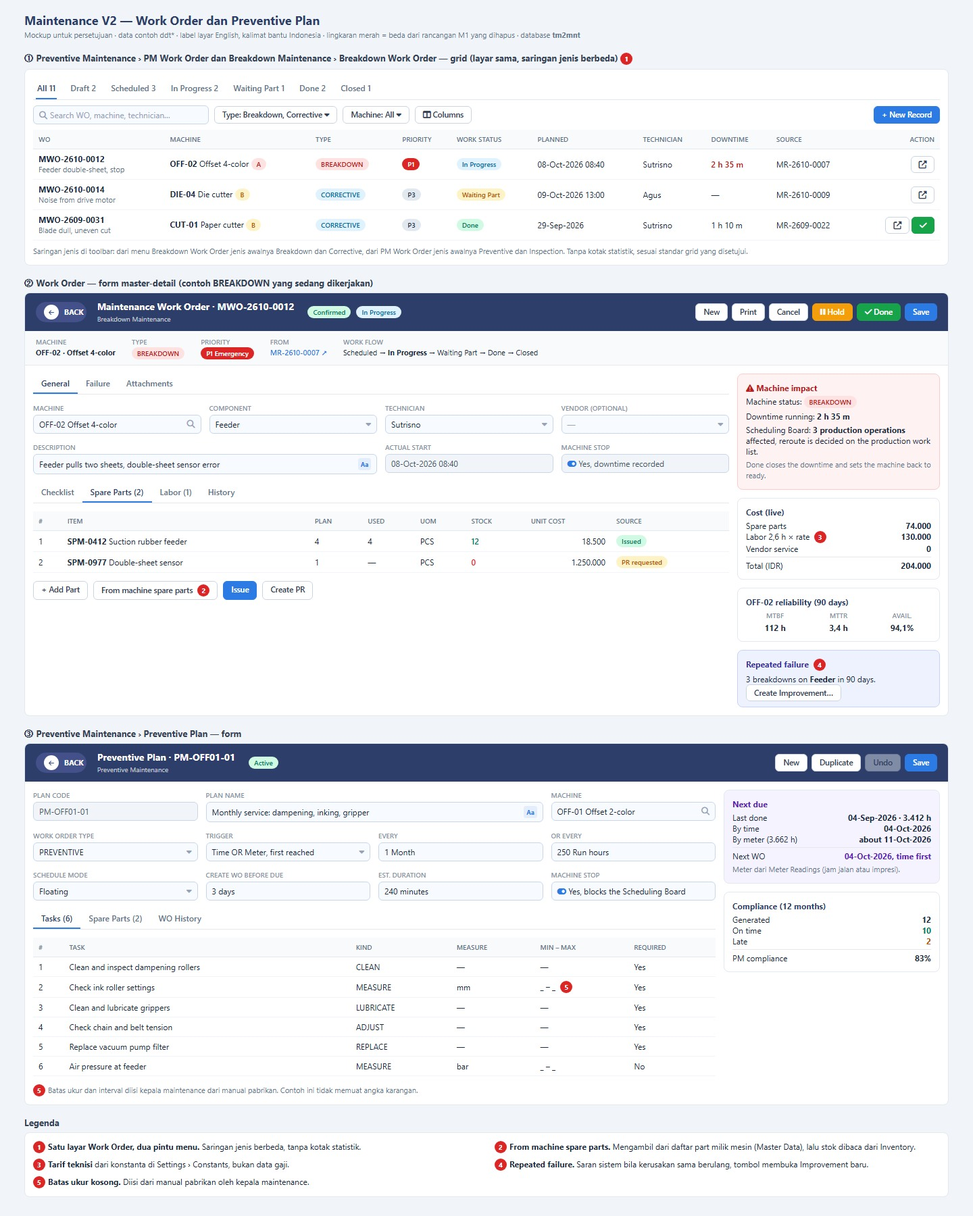
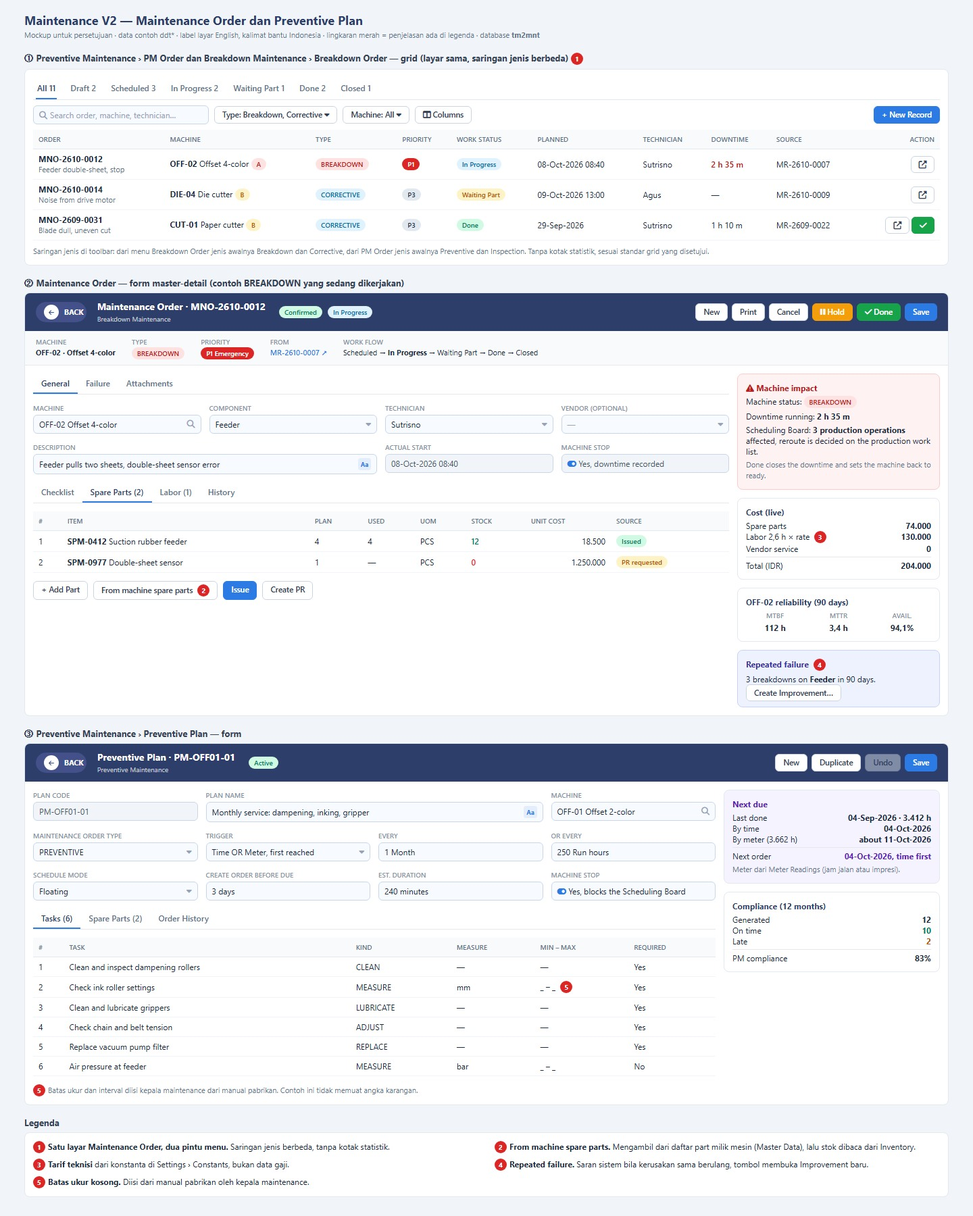
Maintenance: "Work Order" is now "Maintenance Order" (menu PM Order / Breakdown Order, prefix MNO, tables mnt_order*)
User decision after comparing popular CMMS names (SAP PM uses Maintenance Order); Work Order stays a Production term. Menu codes, mockups, Help topics and the plan updated.

Agent: Jo

diff --git a/docs/mockups/maintenance_v2_work.html b/docs/mockups/maintenance_v2_work.html
@@ -2,7 +2,7 @@
 <html lang="id">
 <head>
 <meta charset="UTF-8">
-<title>Maintenance V2 — Work Order dan Preventive Plan</title>
+<title>Maintenance V2 — Maintenance Order dan Preventive Plan</title>
 <script src="https://cdn.tailwindcss.com"></script>
 <link rel="stylesheet" href="https://cdnjs.cloudflare.com/ajax/libs/font-awesome/6.5.1/css/all.min.css">
 <script>
@@ -39,38 +39,38 @@
 <main class="p-4 max-w-[1400px] mx-auto">
 
 <div>
-  <div class="text-lg font-bold text-navy">Maintenance V2 — Work Order dan Preventive Plan</div>
-  <div class="note">Mockup untuk persetujuan · data contoh ddt* · label layar English, kalimat bantu Indonesia · lingkaran merah = beda dari rancangan M1 yang dihapus · database <b>tm2mnt</b></div>
+  <div class="text-lg font-bold text-navy">Maintenance V2 — Maintenance Order dan Preventive Plan</div>
+  <div class="note">Mockup untuk persetujuan · data contoh ddt* · label layar English, kalimat bantu Indonesia · lingkaran merah = penjelasan ada di legenda · database <b>tm2mnt</b></div>
 </div>
 
 <!-- ============ WO GRID ============ -->
-<div class="cap">① Preventive Maintenance › PM Work Order dan Breakdown Maintenance › Breakdown Work Order — grid (layar sama, saringan jenis berbeda) <span class="tag">1</span></div>
+<div class="cap">① Preventive Maintenance › PM Order dan Breakdown Maintenance › Breakdown Order — grid (layar sama, saringan jenis berbeda) <span class="tag">1</span></div>
 <section class="card p-3 space-y-2">
   <div class="flt"><span class="on">All 11</span><span>Draft 2</span><span>Scheduled 3</span><span>In Progress 2</span><span>Waiting Part 1</span><span>Done 2</span><span>Closed 1</span></div>
   <div class="flex items-center gap-2">
-    <div class="inp" style="width:260px"><span class="text-slate-400"><i class="fa-solid fa-magnifying-glass mr-1"></i>Search WO, machine, technician…</span></div>
+    <div class="inp" style="width:260px"><span class="text-slate-400"><i class="fa-solid fa-magnifying-glass mr-1"></i>Search order, machine, technician…</span></div>
     <span class="btn">Type: Breakdown, Corrective <i class="fa-solid fa-caret-down"></i></span>
     <span class="btn">Machine: All <i class="fa-solid fa-caret-down"></i></span>
     <span class="btn"><i class="fa-solid fa-table-columns"></i> Columns</span>
     <span class="btn pri ml-auto">+ New Record</span>
   </div>
   <table class="w-full">
-    <thead><tr><th>WO</th><th>Machine</th><th>Type</th><th>Priority</th><th>Work status</th><th>Planned</th><th>Technician</th><th>Downtime</th><th>Source</th><th class="text-right">Action</th></tr></thead>
+    <thead><tr><th>Order</th><th>Machine</th><th>Type</th><th>Priority</th><th>Work status</th><th>Planned</th><th>Technician</th><th>Downtime</th><th>Source</th><th class="text-right">Action</th></tr></thead>
     <tbody>
-      <tr><td><b>MWO-2610-0012</b><div class="note">Feeder double-sheet, stop</div></td><td><b>OFF-02</b> Offset 4-color <span class="bdg bg-red-100 text-red-700">A</span></td><td><span class="bdg bg-red-100 text-red-700">BREAKDOWN</span></td><td><span class="bdg bg-red-600 text-white">P1</span></td><td><span class="bdg bg-sky-100 text-sky-700">In Progress</span></td><td>08-Oct-2026 08:40</td><td>Sutrisno</td><td class="text-red-700 font-semibold">2 h 35 m</td><td>MR-2610-0007</td><td class="text-right"><span class="btn"><i class="fa-solid fa-up-right-from-square"></i></span></td></tr>
-      <tr><td><b>MWO-2610-0014</b><div class="note">Noise from drive motor</div></td><td><b>DIE-04</b> Die cutter <span class="bdg bg-amber-100 text-amber-700">B</span></td><td><span class="bdg bg-sky-100 text-sky-700">CORRECTIVE</span></td><td><span class="bdg bg-slate-200">P3</span></td><td><span class="bdg bg-amber-100 text-amber-700">Waiting Part</span></td><td>09-Oct-2026 13:00</td><td>Agus</td><td>—</td><td>MR-2610-0009</td><td class="text-right"><span class="btn"><i class="fa-solid fa-up-right-from-square"></i></span></td></tr>
-      <tr><td><b>MWO-2609-0031</b><div class="note">Blade dull, uneven cut</div></td><td><b>CUT-01</b> Paper cutter <span class="bdg bg-amber-100 text-amber-700">B</span></td><td><span class="bdg bg-sky-100 text-sky-700">CORRECTIVE</span></td><td><span class="bdg bg-slate-200">P3</span></td><td><span class="bdg bg-emerald-100 text-emerald-700">Done</span></td><td>29-Sep-2026</td><td>Sutrisno</td><td>1 h 10 m</td><td>MR-2609-0022</td><td class="text-right"><span class="btn"><i class="fa-solid fa-up-right-from-square"></i></span> <span class="btn ok"><i class="fa-solid fa-check"></i></span></td></tr>
+      <tr><td><b>MNO-2610-0012</b><div class="note">Feeder double-sheet, stop</div></td><td><b>OFF-02</b> Offset 4-color <span class="bdg bg-red-100 text-red-700">A</span></td><td><span class="bdg bg-red-100 text-red-700">BREAKDOWN</span></td><td><span class="bdg bg-red-600 text-white">P1</span></td><td><span class="bdg bg-sky-100 text-sky-700">In Progress</span></td><td>08-Oct-2026 08:40</td><td>Sutrisno</td><td class="text-red-700 font-semibold">2 h 35 m</td><td>MR-2610-0007</td><td class="text-right"><span class="btn"><i class="fa-solid fa-up-right-from-square"></i></span></td></tr>
+      <tr><td><b>MNO-2610-0014</b><div class="note">Noise from drive motor</div></td><td><b>DIE-04</b> Die cutter <span class="bdg bg-amber-100 text-amber-700">B</span></td><td><span class="bdg bg-sky-100 text-sky-700">CORRECTIVE</span></td><td><span class="bdg bg-slate-200">P3</span></td><td><span class="bdg bg-amber-100 text-amber-700">Waiting Part</span></td><td>09-Oct-2026 13:00</td><td>Agus</td><td>—</td><td>MR-2610-0009</td><td class="text-right"><span class="btn"><i class="fa-solid fa-up-right-from-square"></i></span></td></tr>
+      <tr><td><b>MNO-2609-0031</b><div class="note">Blade dull, uneven cut</div></td><td><b>CUT-01</b> Paper cutter <span class="bdg bg-amber-100 text-amber-700">B</span></td><td><span class="bdg bg-sky-100 text-sky-700">CORRECTIVE</span></td><td><span class="bdg bg-slate-200">P3</span></td><td><span class="bdg bg-emerald-100 text-emerald-700">Done</span></td><td>29-Sep-2026</td><td>Sutrisno</td><td>1 h 10 m</td><td>MR-2609-0022</td><td class="text-right"><span class="btn"><i class="fa-solid fa-up-right-from-square"></i></span> <span class="btn ok"><i class="fa-solid fa-check"></i></span></td></tr>
     </tbody>
   </table>
-  <div class="note">Saringan jenis di toolbar: dari menu Breakdown Work Order jenis awalnya Breakdown dan Corrective, dari PM Work Order jenis awalnya Preventive dan Inspection. Tanpa kotak statistik, sesuai standar grid yang disetujui.</div>
+  <div class="note">Saringan jenis di toolbar: dari menu Breakdown Order jenis awalnya Breakdown dan Corrective, dari PM Order jenis awalnya Preventive dan Inspection. Tanpa kotak statistik, sesuai standar grid yang disetujui.</div>
 </section>
 
 <!-- ============ WO FORM ============ -->
-<div class="cap">② Work Order — form master-detail (contoh BREAKDOWN yang sedang dikerjakan)</div>
+<div class="cap">② Maintenance Order — form master-detail (contoh BREAKDOWN yang sedang dikerjakan)</div>
 <section class="card overflow-hidden">
   <div class="bg-navy text-white px-4 py-2.5 flex items-center gap-2">
     <span class="back"><i class="fa-solid fa-arrow-left" style="font-size:9px"></i>Back</span>
-    <div class="ml-2"><div class="text-sm font-bold">Maintenance Work Order · MWO-2610-0012</div><div class="text-[10px] opacity-70">Breakdown Maintenance</div></div>
+    <div class="ml-2"><div class="text-sm font-bold">Maintenance Order · MNO-2610-0012</div><div class="text-[10px] opacity-70">Breakdown Maintenance</div></div>
     <span class="bdg bg-emerald-100 text-emerald-700 ml-3">Confirmed</span>
     <span class="bdg bg-sky-100 text-sky-700">In Progress</span>
     <div class="ml-auto flex items-center gap-1.5">
@@ -152,16 +152,16 @@
         <div><div class="lbl">Plan code</div><div class="inp ro">PM-OFF01-01</div></div>
         <div class="col-span-2"><div class="lbl">Plan name</div><div class="inp">Monthly service: dampening, inking, gripper <span class="aa">Aa</span></div></div>
         <div><div class="lbl">Machine</div><div class="inp">OFF-01 Offset 2-color <i class="fa-solid fa-magnifying-glass text-slate-400"></i></div></div>
-        <div><div class="lbl">Work order type</div><div class="inp">PREVENTIVE <i class="fa-solid fa-caret-down text-slate-400"></i></div></div>
+        <div><div class="lbl">Maintenance order type</div><div class="inp">PREVENTIVE <i class="fa-solid fa-caret-down text-slate-400"></i></div></div>
         <div><div class="lbl">Trigger</div><div class="inp">Time OR Meter, first reached <i class="fa-solid fa-caret-down text-slate-400"></i></div></div>
         <div><div class="lbl">Every</div><div class="inp">1 Month</div></div>
         <div><div class="lbl">Or every</div><div class="inp">250 Run hours</div></div>
         <div><div class="lbl">Schedule mode</div><div class="inp">Floating <i class="fa-solid fa-caret-down text-slate-400"></i></div></div>
-        <div><div class="lbl">Create WO before due</div><div class="inp">3 days</div></div>
+        <div><div class="lbl">Create order before due</div><div class="inp">3 days</div></div>
         <div><div class="lbl">Est. duration</div><div class="inp">240 minutes</div></div>
         <div><div class="lbl">Machine stop</div><div class="inp"><span><i class="fa-solid fa-toggle-on text-accent"></i> Yes, blocks the Scheduling Board</span></div></div>
       </div>
-      <div class="flex border-b"><span class="tab on">Tasks (6)</span><span class="tab">Spare Parts (2)</span><span class="tab">WO History</span></div>
+      <div class="flex border-b"><span class="tab on">Tasks (6)</span><span class="tab">Spare Parts (2)</span><span class="tab">Order History</span></div>
       <table class="w-full">
         <thead><tr><th>#</th><th>Task</th><th>Kind</th><th>Measure</th><th>Min – Max</th><th>Required</th></tr></thead>
         <tbody>
@@ -181,7 +181,7 @@
         <div class="flex justify-between"><span>Last done</span><b>04-Sep-2026 · 3.412 h</b></div>
         <div class="flex justify-between"><span>By time</span><b>04-Oct-2026</b></div>
         <div class="flex justify-between"><span>By meter (3.662 h)</span><b>about 11-Oct-2026</b></div>
-        <div class="flex justify-between border-t mt-1 pt-1"><span>Next WO</span><b class="text-violet-800">04-Oct-2026, time first</b></div>
+        <div class="flex justify-between border-t mt-1 pt-1"><span>Next order</span><b class="text-violet-800">04-Oct-2026, time first</b></div>
         <div class="note mt-1">Meter dari Meter Readings (jam jalan atau impresi).</div>
       </div>
       <div class="card p-3">
@@ -197,7 +197,7 @@
 
 <div class="cap">Legenda</div>
 <div class="card p-3 grid grid-cols-2 gap-x-6 gap-y-2">
-  <div class="flex"><span class="tag">1</span><div><b>Satu layar Work Order, dua pintu menu.</b> Saringan jenis berbeda, tanpa kotak statistik.</div></div>
+  <div class="flex"><span class="tag">1</span><div><b>Satu layar Maintenance Order, dua pintu menu.</b> Saringan jenis berbeda, tanpa kotak statistik.</div></div>
   <div class="flex"><span class="tag">2</span><div><b>From machine spare parts.</b> Mengambil dari daftar part milik mesin (Master Data), lalu stok dibaca dari Inventory.</div></div>
   <div class="flex"><span class="tag">3</span><div><b>Tarif teknisi</b> dari konstanta di Settings › Constants, bukan data gaji.</div></div>
   <div class="flex"><span class="tag">4</span><div><b>Repeated failure.</b> Saran sistem bila kerusakan sama berulang, tombol membuka Improvement baru.</div></div>

diff --git a/docs/mockups/maintenance_v2_more.html b/docs/mockups/maintenance_v2_more.html
@@ -70,7 +70,7 @@
     <div class="col-span-2"><div class="lbl">Symptom</div><div class="inp" style="min-height:44px;align-items:flex-start">Heater reading 96 °C, check shows Not OK. <span class="aa">Aa</span></div></div>
     <div><div class="lbl">Reported by</div><div class="inp ro">Operator (Daily Check)</div></div>
     <div><div class="lbl">Source</div><div class="inp ro">Daily Check DC-2610-0041 ↗</div></div>
-    <div class="col-span-2 note">Accept membuat Work Order Confirmed dengan teknisi dan jadwal yang dipilih. Reject wajib alasan. Request P1 pada mesin berhenti sudah otomatis menjadi Work Order.</div>
+    <div class="col-span-2 note">Accept membuat Maintenance Order Confirmed dengan teknisi dan jadwal yang dipilih. Reject wajib alasan. Request P1 pada mesin berhenti sudah otomatis menjadi Maintenance Order.</div>
   </div>
 </section>
 </div>
@@ -165,26 +165,26 @@
   <div class="phone">
     <div class="px-3 py-2 text-white" style="background:#2c3e69"><div class="font-bold">Report Problem</div><div class="text-[10px] opacity-70">QR · OFF-02</div></div>
     <div class="p-3 space-y-2">
-      <div class="card p-2"><b>OFF-02 · Offset 4-color</b><div class="note">Last breakdown 12 days ago · open WO: 0</div></div>
+      <div class="card p-2"><b>OFF-02 · Offset 4-color</b><div class="note">Last breakdown 12 days ago · open orders: 0</div></div>
       <div><div class="lbl">Machine stopped?</div><div class="flex gap-2"><span class="btn pri flex-1 text-center">Yes, stopped</span><span class="btn flex-1 text-center">No, running</span></div></div>
       <div><div class="lbl">What happened</div><div class="inp" style="min-height:52px;align-items:flex-start">Feeder pulls two sheets <span class="aa">Aa</span></div></div>
       <div><div class="lbl">Photo</div><div class="inp text-slate-400"><span><i class="fa-solid fa-camera"></i> Take photo</span></div></div>
-      <div class="note">Mesin kritis A dan berhenti: prioritas <b class="text-red-700">P1</b>, langsung menjadi Work Order.</div>
+      <div class="note">Mesin kritis A dan berhenti: prioritas <b class="text-red-700">P1</b>, langsung menjadi Maintenance Order.</div>
       <span class="btn pri block text-center py-2">Save</span>
     </div>
   </div>
   <div class="phone">
     <div class="px-3 py-2 text-white" style="background:#2c3e69"><div class="font-bold">My Work</div><div class="text-[10px] opacity-70">Sutrisno · Thu 08-Oct</div></div>
     <div class="p-3 space-y-2">
-      <div class="card p-2" style="border-left:4px solid #ef4444"><div class="flex justify-between"><b>MWO-2610-0012</b><span class="bdg bg-red-600 text-white">P1</span></div><div>OFF-02 · Feeder double-sheet</div><div class="flex gap-1 mt-1"><span class="btn warn">Hold</span><span class="btn ok">Done</span></div></div>
-      <div class="card p-2" style="border-left:4px solid #8b5cf6"><div class="flex justify-between"><b>MWO-2610-0013</b><span class="bdg bg-slate-200">P3</span></div><div>DIE-04 · Weekly lubrication · 13:00</div><div class="flex gap-1 mt-1"><span class="btn pri">Start</span></div></div>
-      <div class="card p-2" style="border-left:4px solid #cbd5e1"><div class="flex justify-between"><b>MWO-2609-0031</b><span class="bdg bg-emerald-100 text-emerald-700">Done</span></div><div class="note">CUT-01 · waiting Close by head</div></div>
+      <div class="card p-2" style="border-left:4px solid #ef4444"><div class="flex justify-between"><b>MNO-2610-0012</b><span class="bdg bg-red-600 text-white">P1</span></div><div>OFF-02 · Feeder double-sheet</div><div class="flex gap-1 mt-1"><span class="btn warn">Hold</span><span class="btn ok">Done</span></div></div>
+      <div class="card p-2" style="border-left:4px solid #8b5cf6"><div class="flex justify-between"><b>MNO-2610-0013</b><span class="bdg bg-slate-200">P3</span></div><div>DIE-04 · Weekly lubrication · 13:00</div><div class="flex gap-1 mt-1"><span class="btn pri">Start</span></div></div>
+      <div class="card p-2" style="border-left:4px solid #cbd5e1"><div class="flex justify-between"><b>MNO-2609-0031</b><span class="bdg bg-emerald-100 text-emerald-700">Done</span></div><div class="note">CUT-01 · waiting Close by head</div></div>
       <div class="card p-2"><div class="lbl">Checklist (PM)</div><div>☑ Clean rollers · ☑ Lubricate grippers · ☐ Air pressure</div></div>
     </div>
   </div>
   <div class="card p-3 flex-1" style="min-width:300px">
     <div class="font-bold text-navy mb-2">Legenda</div>
-    <div class="flex mb-2"><span class="tag">1</span><div>Request yang berasal dari Daily Check ditandai sumbernya, dan tidak langsung menjadi Work Order.</div></div>
+    <div class="flex mb-2"><span class="tag">1</span><div>Request yang berasal dari Daily Check ditandai sumbernya, dan tidak langsung menjadi Maintenance Order.</div></div>
     <div class="flex mb-2"><span class="tag">2</span><div>Machine Readiness hanya dibaca. Angka kelengkapan dihitung dari data, tidak disimpan.</div></div>
     <div class="note">Grid memakai satu baris saringan teks dengan garis bawah bergeser, tanpa kotak statistik. Tombol aksi memakai ikon berbingkai: Buka, Confirm.</div>
   </div>

diff --git a/docs/mockups/maintenance_v2_flow.html b/docs/mockups/maintenance_v2_flow.html
@@ -79,7 +79,7 @@
       <div class="card p-3"><div class="lbl">Breakdowns, last 90 days</div><div class="text-2xl font-bold text-navy">3</div><div class="note">komponen yang sama</div></div>
       <div class="card p-3"><div class="lbl">Downtime</div><div class="text-2xl font-bold text-navy">7,5 <span class="text-sm">h</span></div><div class="note">total, 90 hari</div></div>
       <div class="card p-3"><div class="lbl">Cost</div><div class="text-2xl font-bold text-navy">2.1 <span class="text-sm">jt IDR</span></div><div class="note">part + teknisi + jasa</div></div>
-      <div class="card p-3"><div class="lbl">Linked work orders</div><div class="text-2xl font-bold text-navy">3</div><div class="note">klik untuk buka</div></div>
+      <div class="card p-3"><div class="lbl">Linked order perawatan</div><div class="text-2xl font-bold text-navy">3</div><div class="note">klik untuk buka</div></div>
     </div>
     <div class="note mt-2"><span class="tag">1</span>Sistem menyarankan Improvement bila kode kerusakan yang sama pada komponen yang sama muncul berulang (3× dalam 90 hari). Ambang diatur di Settings › Constants.</div>
   </div>
@@ -132,19 +132,19 @@
         <tr><td><span class="d">12</span></td><td><span class="d">13</span><span class="pm">LAM-01 Heater</span></td><td><span class="d">14</span></td><td><span class="d">15</span></td><td><span class="d">16</span><span class="insp">FKL-01 K3 check</span></td><td><span class="d">17</span></td><td><span class="d">18</span></td></tr>
       </tbody>
     </table>
-    <div class="note mt-2"><span class="tag">7</span>Klik kotak PM membuka Work Order-nya. Kotak bergaris (machine blocked) juga tampil di Scheduling Board sebagai blok "MTN" (rencana M2). Geser jadwal = usulan, kepala maintenance mengonfirmasi.</div>
+    <div class="note mt-2"><span class="tag">7</span>Klik kotak PM membuka Maintenance Order-nya. Kotak bergaris (machine blocked) juga tampil di Scheduling Board sebagai blok "MTN" (rencana M2). Geser jadwal = usulan, kepala maintenance mengonfirmasi.</div>
   </div>
 </div>
 
 <div class="cap">Legenda</div>
 <div class="card p-3 grid grid-cols-2 gap-x-6 gap-y-2">
   <div class="flex"><span class="tag">1</span><div><b>Kerusakan berulang disarankan jadi Improvement.</b> Ambang (3× dalam 90 hari) ada di Constants, bisa diubah.</div></div>
-  <div class="flex"><span class="tag">2</span><div><b>Evidence dihitung sistem</b> dari WO dan downtime yang sudah ada, tidak diketik.</div></div>
+  <div class="flex"><span class="tag">2</span><div><b>Evidence dihitung sistem</b> dari order dan downtime yang sudah ada, tidak diketik.</div></div>
   <div class="flex"><span class="tag">3</span><div><b>Apply to master dikerjakan orang.</b> Sesuai aturan: master hanya diubah user, sistem hanya mengubah transaksi.</div></div>
   <div class="flex"><span class="tag">4</span><div><b>Persetujuan dua tingkat.</b> Biaya di atas ambang (Constants) butuh Direksi juga, di bawahnya cukup Kepala Maintenance.</div></div>
   <div class="flex"><span class="tag">5</span><div><b>Review otomatis dijadwalkan</b> 60 hari setelah selesai. Angka sebelum dan sesudah diisi sistem, orang hanya menyimpulkan.</div></div>
-  <div class="flex"><span class="tag">6</span><div><b>Daily Check Not OK</b> otomatis membuka Maintenance Request, bukan Work Order, supaya kepala maintenance yang menilai.</div></div>
-  <div class="flex"><span class="tag">7</span><div><b>PM Calendar.</b> Tampilan kalender dari Work Order PREVENTIVE dan INSPECTION yang sudah ada, bukan data baru.</div></div>
+  <div class="flex"><span class="tag">6</span><div><b>Daily Check Not OK</b> otomatis membuka Maintenance Request, bukan Maintenance Order, supaya kepala maintenance yang menilai.</div></div>
+  <div class="flex"><span class="tag">7</span><div><b>PM Calendar.</b> Tampilan kalender dari Maintenance Order PREVENTIVE dan INSPECTION yang sudah ada, bukan data baru.</div></div>
 </div>
 
 </main>

diff --git a/docs/mockups/maintenance_v2_master.html b/docs/mockups/maintenance_v2_master.html
@@ -54,13 +54,13 @@
       <div class="menu-g"><span class="tag">1</span>Preventive Maintenance</div>
       <div class="menu-i"><i class="fa-solid fa-calendar-check w-4 text-muted"></i>Preventive Plan</div>
       <div class="menu-i new"><i class="fa-solid fa-calendar-days w-4 text-muted"></i>PM Calendar</div>
-      <div class="menu-i"><i class="fa-solid fa-screwdriver-wrench w-4 text-muted"></i>PM Work Order</div>
+      <div class="menu-i"><i class="fa-solid fa-screwdriver-wrench w-4 text-muted"></i>PM Order</div>
       <div class="menu-i new"><i class="fa-solid fa-clipboard-check w-4 text-muted"></i>Daily Check</div>
       <div class="menu-i new"><i class="fa-solid fa-gauge-high w-4 text-muted"></i>Meter Readings</div>
 
       <div class="menu-g"><span class="tag">2</span>Breakdown Maintenance</div>
       <div class="menu-i"><i class="fa-solid fa-triangle-exclamation w-4 text-muted"></i>Maintenance Request</div>
-      <div class="menu-i"><i class="fa-solid fa-screwdriver-wrench w-4 text-muted"></i>Breakdown Work Order</div>
+      <div class="menu-i"><i class="fa-solid fa-screwdriver-wrench w-4 text-muted"></i>Breakdown Order</div>
       <div class="menu-i"><i class="fa-solid fa-user-gear w-4 text-muted"></i>My Work</div>
 
       <div class="menu-g"><span class="tag">3</span>Improvement</div>
@@ -73,11 +73,11 @@
       <div class="menu-i"><i class="fa-solid fa-gears w-4 text-muted"></i>Master Mesin</div>
 
       <div class="menu-g"><span class="tag">5</span>Report</div>
-      <div class="menu-i"><i class="fa-solid fa-table-list w-4 text-muted"></i>Maintenance WO Report</div>
+      <div class="menu-i"><i class="fa-solid fa-table-list w-4 text-muted"></i>Maintenance Order Report</div>
       <div class="menu-i new"><i class="fa-solid fa-chart-column w-4 text-muted"></i>Machine Reliability</div>
       <div class="menu-i new"><i class="fa-solid fa-percent w-4 text-muted"></i>PM Compliance</div>
     </div>
-    <div class="note mt-2">Garis putus merah = layar baru. Layar tanpa garis sudah dibangun di M1 dan hanya dipindah grupnya (PM Work Order dan Breakdown Work Order = layar Work Order yang sama, disaring menurut jenis).</div>
+    <div class="note mt-2">Garis putus merah = layar baru. Layar tanpa garis sudah dibangun di M1 dan hanya dipindah grupnya (PM Order dan Breakdown Order = layar Maintenance Order yang sama, disaring menurut jenis).</div>
   </div>
 
   <!-- ===== PROFILE FORM ===== -->
@@ -131,7 +131,7 @@
 
         <div class="cap">Tab Spare Parts (isi tab, contoh)</div>
         <div class="flex items-center justify-between">
-          <div class="note"><span class="tag">4</span>Part milik mesin ini (barang Spare Part Machine dari master material). Dipakai saran stok minimum dan pilihan cepat di Work Order.</div>
+          <div class="note"><span class="tag">4</span>Part milik mesin ini (barang Spare Part Machine dari master material). Dipakai saran stok minimum dan pilihan cepat di Maintenance Order.</div>
           <span class="btn pri">+ Tambah Spare Part</span>
         </div>
         <table class="w-full mt-2 border border-slate-200 rounded">

diff --git a/database/migrations/2026_10_08_000010_maintenance_module_menu.php b/database/migrations/2026_10_08_000010_maintenance_module_menu.php
@@ -101,13 +101,13 @@ return new class extends Migration
         $add('MAINT_GRP_PM', 'MAINT', 'Preventive Maintenance', 'fa-solid fa-calendar-check', 'group', ['sort_order' => 10]);
         $item('MAINT_PLAN', 'MAINT_GRP_PM', 'Preventive Plan', 'fa-solid fa-calendar-check', 10);
         $item('MAINT_PM_CAL', 'MAINT_GRP_PM', 'PM Calendar', 'fa-solid fa-calendar-days', 20);
-        $item('MAINT_PM_WO', 'MAINT_GRP_PM', 'PM Work Order', 'fa-solid fa-screwdriver-wrench', 30);
+        $item('MAINT_PM_ORDER', 'MAINT_GRP_PM', 'PM Order', 'fa-solid fa-screwdriver-wrench', 30);
         $item('MAINT_DAILY', 'MAINT_GRP_PM', 'Daily Check', 'fa-solid fa-clipboard-check', 40);
         $item('MAINT_METER', 'MAINT_GRP_PM', 'Meter Readings', 'fa-solid fa-gauge-high', 50);
 
         $add('MAINT_GRP_BD', 'MAINT', 'Breakdown Maintenance', 'fa-solid fa-triangle-exclamation', 'group', ['sort_order' => 20]);
         $item('MAINT_REQ', 'MAINT_GRP_BD', 'Maintenance Request', 'fa-solid fa-triangle-exclamation', 10);
-        $item('MAINT_BD_WO', 'MAINT_GRP_BD', 'Breakdown Work Order', 'fa-solid fa-screwdriver-wrench', 20);
+        $item('MAINT_BD_ORDER', 'MAINT_GRP_BD', 'Breakdown Order', 'fa-solid fa-screwdriver-wrench', 20);
         $item('MAINT_MYWORK', 'MAINT_GRP_BD', 'My Work', 'fa-solid fa-user-gear', 30);
 
         $add('MAINT_GRP_IMP', 'MAINT', 'Improvement', 'fa-solid fa-lightbulb', 'group', ['sort_order' => 30]);
@@ -121,7 +121,7 @@ return new class extends Migration
         $item('MAINT_MACHINE', 'MAINT_GRP_MASTER', 'Master Machine', 'fa-solid fa-gears', 40, 'form', ['target' => 'v2:prod-machine']);
 
         $add('MAINT_GRP_RPT', 'MAINT', 'Report', 'fa-solid fa-chart-column', 'group', ['sort_order' => 50]);
-        $item('MAINT_WO_RPT', 'MAINT_GRP_RPT', 'Maintenance WO Report', 'fa-solid fa-table-list', 10, 'report');
+        $item('MAINT_ORDER_RPT', 'MAINT_GRP_RPT', 'Maintenance Order Report', 'fa-solid fa-table-list', 10, 'report');
         $item('MAINT_RELIAB', 'MAINT_GRP_RPT', 'Machine Reliability', 'fa-solid fa-chart-column', 20, 'report');
         $item('MAINT_PMCOMP', 'MAINT_GRP_RPT', 'PM Compliance', 'fa-solid fa-percent', 30, 'report');
     }
